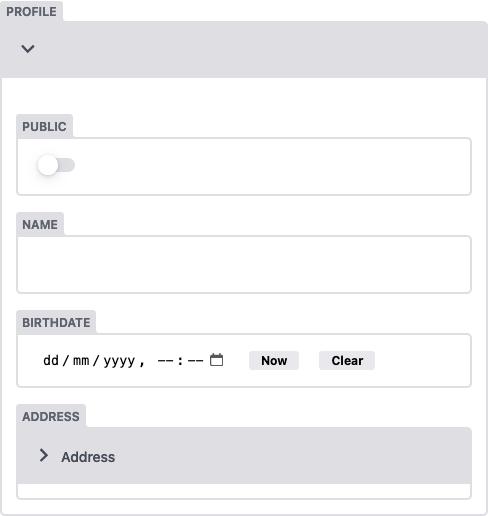
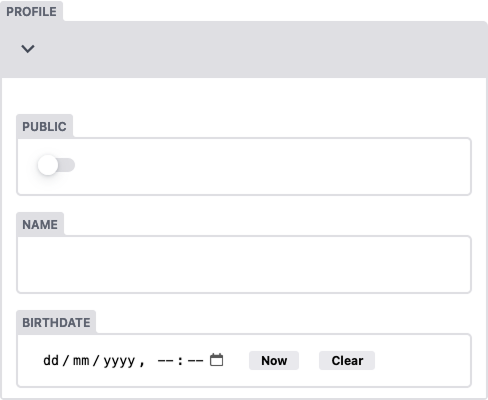
fix features images

diff --git a/layouts/partials/feature-card.html b/layouts/partials/feature-card.html
@@ -43,7 +43,7 @@
   
     {{ with $feature.image }}
       <div class="feature-card__image">
-        <img src="/img/{{ . }}" alt="{{ or $feature.imageAlt $feature.title }}" class="feature-card__image-media" loading="lazy" decoding="async" />
+        <img src="{{ . }}" alt="{{ or $feature.imageAlt $feature.title }}" class="feature-card__image-media" loading="lazy" decoding="async" />
       </div>
     {{ end }}
   </div>

diff --git a/content/features/custom-widgets-previews.md b/content/features/custom-widgets-previews.md
@@ -9,6 +9,6 @@ homepage: true
 description: |-
   Extend editorial UX with custom widgets, preview templates, and plugins when default behavior is not enough for your product requirements.
 visual: Show modular extension components attached to the CMS interface.
-image: widget-object.png
+image: /img/widget-object.png
 imageAlt: Structured widget customization
 ---

diff --git a/content/features/editorial-workflow.md b/content/features/editorial-workflow.md
@@ -10,6 +10,6 @@ homepage: true
 description: |-
   Content can move through clear statuses before publication, helping teams keep quality controls without adding a separate workflow tool.
 visual: Show a single entry moving from draft to review to publish.
-image: screenshot-editorial.png
+image: /img/screenshot-editorial.png
 imageAlt: Editorial workflow view
 ---

diff --git a/content/features/flexible-content-modeling.md b/content/features/flexible-content-modeling.md
@@ -8,6 +8,6 @@ homepage: true
 description: |-
   Define collections, nested structures, relation fields, and slug behavior so your content model matches your project rather than forcing a rigid schema.
 visual: Show linked entries and repeatable structured blocks.
-image: widget-relation.png
+image: /img/widget-relation.png
 imageAlt: Relation widget example
 ---

diff --git a/content/features/friendly-editor-ui.md b/content/features/friendly-editor-ui.md
@@ -8,6 +8,6 @@ homepage: true
 description: |-
   Decap provides a web editor with structured fields, rich text, and live preview so non-technical contributors can work confidently.
 visual: Show the editor form and page preview side by side while typing.
-image: screenshot-editor.png
+image: /img/screenshot-editor.png
 imageAlt: Decap editor with live preview
 ---

diff --git a/content/features/git-native-history.md b/content/features/git-native-history.md
@@ -8,6 +8,6 @@ homepage: true
 description: |-
   Content stays in your repository with full version history, branch workflows, and deployment checks in the same system your team already uses.
 visual: Show commit history and deployment preview statuses.
-image: github-statuses-deploy-previews.png
+image: /img/github-statuses-deploy-previews.png
 imageAlt: GitHub status checks and previews
 ---

diff --git a/content/features/local-development.md b/content/features/local-development.md
@@ -8,6 +8,6 @@ homepage: false
 description: |-
   Use `npx decap-server` for local testing and rapid iteration on content models and editor behavior before pushing to remote environments.
 visual: Show local CMS, local content changes, and local preview loop.
-image: configure.png
+image: /img/configure.png
 imageAlt: Local development setup concept
 ---

diff --git a/content/features/media-library.md b/content/features/media-library.md
@@ -9,6 +9,6 @@ homepage: false
 description: |-
   Editors can upload and manage assets directly in the CMS, and teams with advanced media needs can integrate tools like Cloudinary and Uploadcare.
 visual: Show asset upload and media selection inside a content entry.
-image: decap-cms-external-media-library.png
+image: /img/decap-cms-external-media-library.png
 imageAlt: Media integration example
 ---

diff --git a/content/features/performance-database-proxy.md b/content/features/performance-database-proxy.md
@@ -10,6 +10,6 @@ homepage: false
 description: |-
   **Decap Turbo optional feature.** Improve CMS responsiveness on larger repositories by using Turbo's database proxy layer.
 visual: Show baseline vs accelerated CMS response cards.
-image: turbo-performance.svg
+image: /icons/turbo-performance.svg
 imageAlt: Performance boost indicator
 ---

diff --git a/content/features/real-time-editing-visibility.md b/content/features/real-time-editing-visibility.md
@@ -10,6 +10,6 @@ homepage: false
 description: |-
   **Decap Turbo optional feature.** See who is editing to avoid collisions and help distributed teams coordinate content work.
 visual: Show active editors with presence indicators on a shared entry.
-image: turbo-team.svg
+image: /icons/turbo-team.svg
 imageAlt: Active editors indicator
 ---

diff --git a/content/features/role-based-access.md b/content/features/role-based-access.md
@@ -10,6 +10,6 @@ homepage: false
 description: |-
   **Decap Turbo optional feature.** Centralize user management, roles, and authentication for larger organizations that need controlled editorial access.
 visual: Show a team member list with permission levels and role badges.
-image: turbo-shield.svg
+image: /icons/turbo-shield.svg
 imageAlt: Access control and roles
 ---

diff --git a/content/features/secrets-storage.md b/content/features/secrets-storage.md
@@ -8,6 +8,6 @@ homepage: false
 description: |-
   **Decap Turbo optional feature.** Store and manage sensitive integration settings for more advanced publishing and operational workflows.
 visual: Show secure secret keys panel connected to automation workflows.
-image: turbo-speed.svg
+image: /icons/turbo-speed.svg
 imageAlt: Secure settings and integrations
 ---